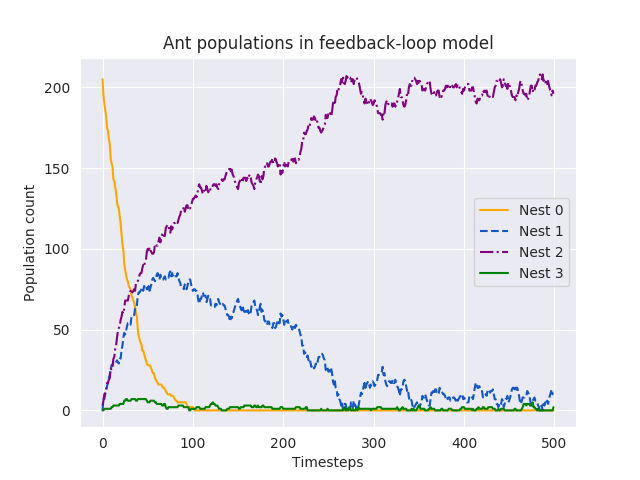
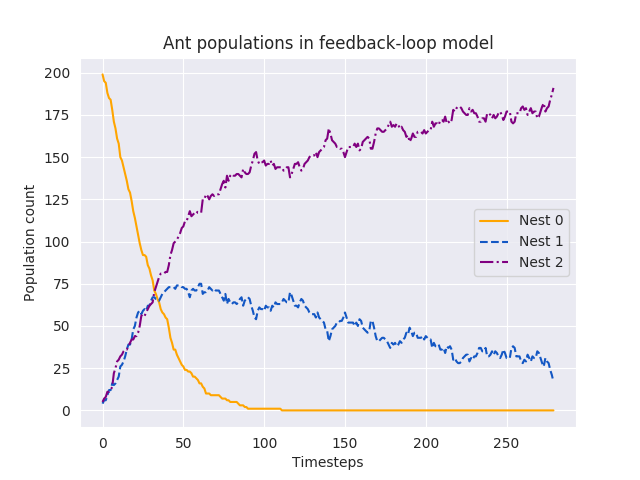
Updates model

diff --git a/saldyt_2018_agent_based/agent.py b/saldyt_2018_agent_based/agent.py
@@ -5,6 +5,8 @@ from pprint      import pprint
 from functools   import reduce
 from time        import sleep
 
+import pandas
+import numpy as np
 import seaborn as sns
 import matplotlib.pyplot as plt
 sns.set_style('darkgrid')
@@ -58,7 +60,7 @@ def gen_free(agents):
         free[agent.current].add(i)
     return free
 
-def plot(N, weights, phi):
+def simulate(N, weights, phi, plot=False):
     linestyles = ['-', '--', '-.'] * 100
     colors     = ['orange', '#1357c4', 'purple', 'green']
     M = len(weights)
@@ -67,42 +69,78 @@ def plot(N, weights, phi):
 
     history = defaultdict(list)
 
+    done = False
     iterations = 500
     for i in range(iterations):
+        if done:
+            iterations = i
+            break
         agents = list(transform(agents, agent, weights, phi, free) for agent in agents)
         free = gen_free(agents)
         for k in range(M):
+            if k != 0 and len(free[k]) > .9 * N:
+                done = True
             if k in free:
                 history[k].append(len(free[k]))
             else:
                 history[k].append(0)
 
-    time = list(range(iterations))
-    for i, H in history.items():
-        linestyle = linestyles[i]
-        color = colors[i]
-        plt.plot(time, H, color=color, label='Nest ' + str(i), linestyle=linestyle)
-    plt.ylabel('Population count')
-    plt.xlabel('Timesteps')
-    plt.legend()
-    plt.title('Ant populations in feedback-loop model')
-    plt.savefig('agent_based_population_model.png')
-    plt.show()
+    if plot:
+        time = list(range(iterations))
+        for i, H in history.items():
+            linestyle = linestyles[i]
+            color = colors[i]
+            plt.plot(time, H, color=color, label='Nest ' + str(i), linestyle=linestyle)
+        plt.ylabel('Population count')
+        plt.xlabel('Timesteps')
+        plt.legend()
+        plt.title('Ant populations in feedback-loop model')
+        plt.savefig('agent_based_population_model.png')
+        plt.show()
+    return iterations
 
-#N = 208
-#weights = [0.0, 0.015, 0.02, 0.02]
-#phi     = [0.0, 0.013, 0.013, 0.013]
-#plot(N, weights, phi)
-#N = 208
-#weights = [0.0, 0.015, 0.02]
-#phi     = [0.0, 0.013, 0.013]
-#plot(N, weights, phi)
-N = 208
-weights = [0.0, 0.015, 0.02, 0.03]
-phi     = [0.0, 0.013, 0.013, 0.013]
-plot(N, weights, phi)
-N = 208
-weights = [0.0, 0.015, 0.02, 0.05]
-phi     = [0.0, 0.013, 0.013, 0.001]
-plot(N, weights, phi)
+data = defaultdict(list)
 
+Ns = [208]
+#alphas = np.linspace(0.0, 0.1, 50)
+#alphas = np.linspace(0.0, 1.0, 50)
+#alphas = np.linspace(0.0, 1.0, 10)
+alphas = [0.015]
+#betas  = alphas
+betas  = [0.02]
+phis   = [0.013]
+phis   = np.linspace(0.0, 0.1, 51)
+
+simulate(208, [0.0, 0.015, 0.02], [0.0, 0.013, 0.013], True)
+# for N in Ns:
+#     for alpha in alphas:
+#         for beta in betas:
+#             for phi_a in phis:
+#                 for phi_b in phis:
+#                     add = lambda k, v : data[k].append(round(v, 4))
+#                     data['N'].append(N)
+#                     add('alpha', alpha)
+#                     add('beta', beta)
+#                     add('phi_a', phi_a)
+#                     add('phi_b', phi_b)
+#                     weights = [0.0, alpha, beta]
+#                     phi     = [0.0, phi_a, phi_b]
+#                     data['iterations'].append(simulate(N, weights, phi))
+#
+# #print(data)
+# original_data = pandas.DataFrame(data)
+# print(original_data)
+# #data = original_data.pivot_table(values='iterations', index='beta', columns=['alpha'])
+# #sns.heatmap(data, yticklabels=True, xticklabels=True)
+# #plt.title('Convergence times for nest quality and threshold')
+# #plt.xlabel('Alpha')
+# #plt.ylabel('Beta')
+# #plt.savefig('agent_convergence_times.png')
+# #plt.show()
+# data = original_data.pivot_table(values='iterations', index='phi_b', columns=['phi_a'])
+# sns.heatmap(data)#, yticklabels=True)
+# plt.title('Convergence times for nest quality and threshold')
+# plt.xlabel('Phi_a')
+# plt.ylabel('Phi_b')
+# plt.savefig('distance_agent_convergence_times.png')
+# plt.show()

diff --git a/saldyt_2018/continuous.py b/saldyt_2018/continuous.py
@@ -40,12 +40,12 @@ final_percentage = 0.95
 
 alpha = [0.0, 0.015, 0.02]
 phi = [0.0, 0.13, 0.13]
-#sigmaA  = [0.0, 0.0195, 0.0195]
-#sigmaL  = [0.0, 0.018,  0.018]
-#sigmaC  = [0.0, 0.044,  0.044]
-sigmaA  = [0.0, 0.0,   0.0]
-sigmaL  = [0.0, 0.0,   0.0]
-sigmaC  = [0.0, 0.0,   0.0]
+sigmaA  = [0.0, 0.0195, 0.0195]
+sigmaL  = [0.0, 0.018,  0.018]
+sigmaC  = [0.0, 0.044,  0.044]
+#sigmaA  = [0.0, 0.0,   0.0]
+#sigmaL  = [0.0, 0.0,   0.0]
+#sigmaC  = [0.0, 0.0,   0.0]
 lambdas = [0.0, 0.033, 0.033]
 tau     = 0.001
 
@@ -125,7 +125,7 @@ Population0 = pack(S=N*p,
                    C=[0, 0, 0],
                    P=[N*(1-p), 0, 0])
 
-N = 400
+N = 1000
 intersteps = 10
 ts = np.linspace(0, N, N * intersteps)
 Ps = odeint(dPopulation_dt, Population0, ts)
@@ -136,8 +136,14 @@ for i in range(1 + M * 4):
         label = ['Assessing', 'Leading', 'Carrying', 'Passive'][(i - 1) // M]
         label += '_' + str((i - 1) % M)
     pop = Ps[:,i]
-    plt.plot(ts, pop, label=label)
-plt.legend()
+    if 'Passive' in label or (i - 1) % 3 != 0:
+        plt.plot(ts, pop, label=label)
+
+# Put a legend to the right of the current axis
+plt.legend(loc='center right', bbox_to_anchor=(1, 0.5))
+#plt.legend(bbox_to_anchor=(1.1, 1.05))
+#plt.legend(loc='upper center', bbox_to_anchor=(0.5, 1.05),
+#          ncol=5, fancybox=True, shadow=False)
 plt.xlabel('Timesteps')
 plt.ylabel('Population count')
 plt.title('Population dynamics during decision process')
